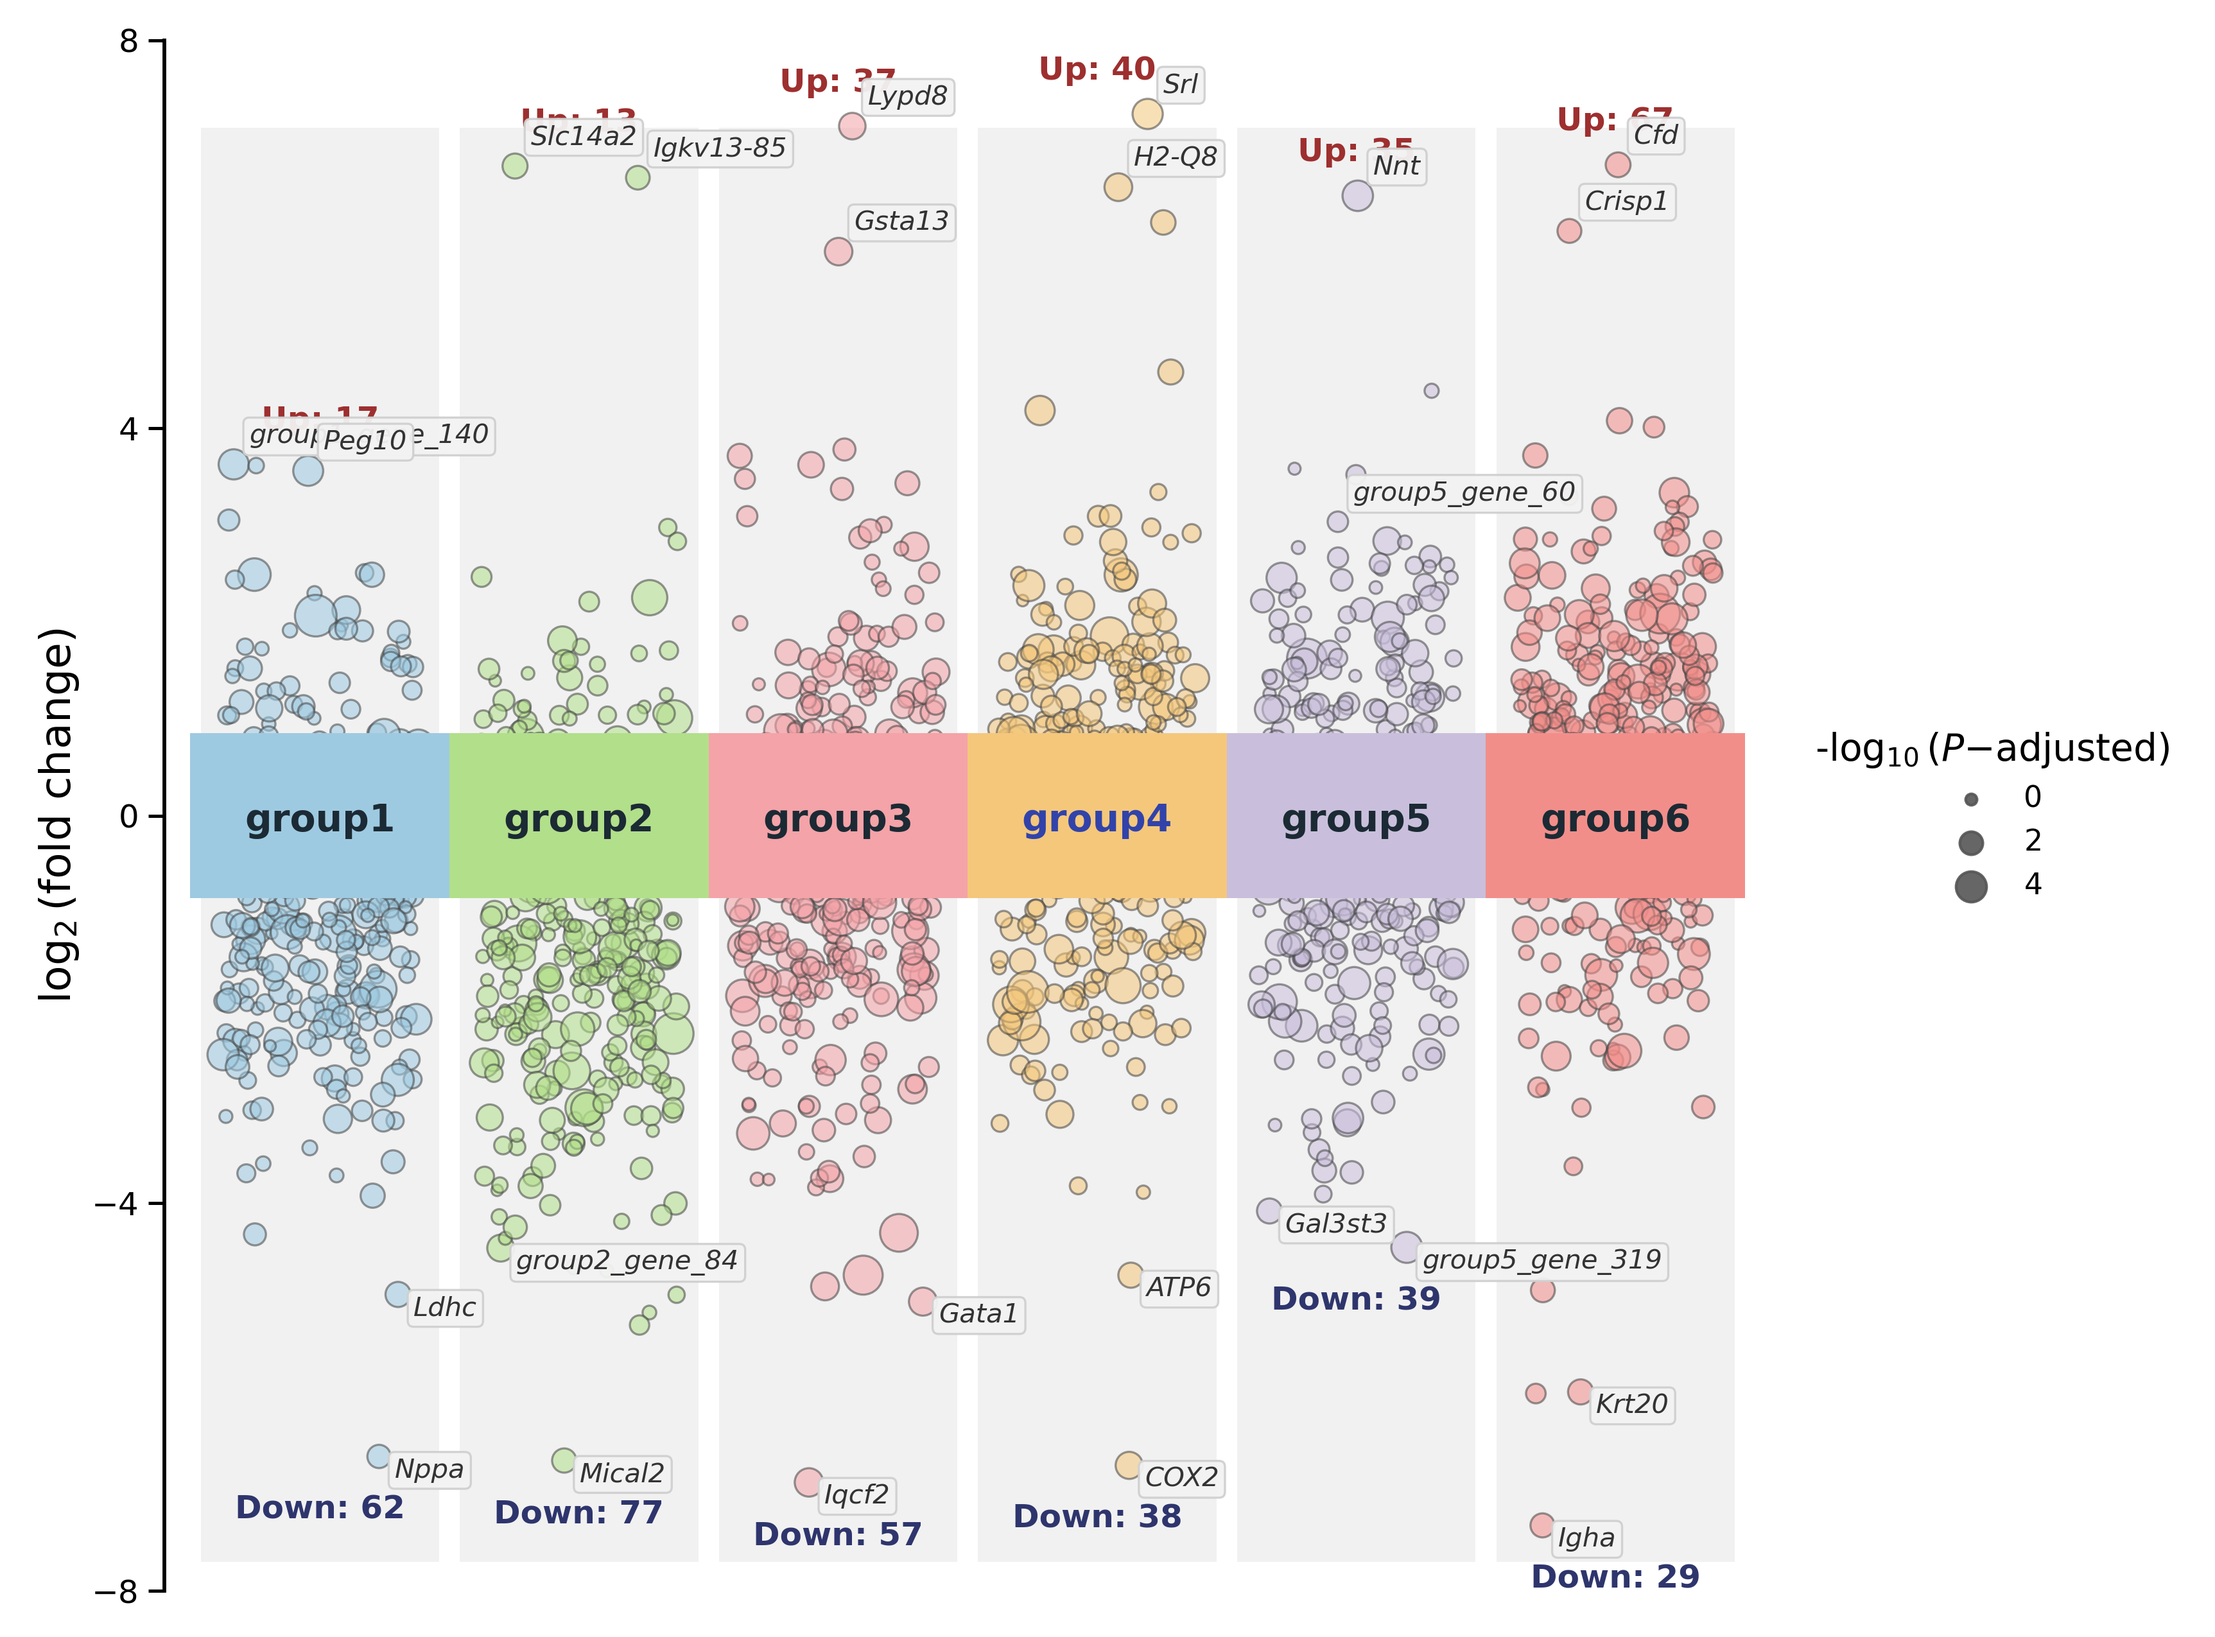
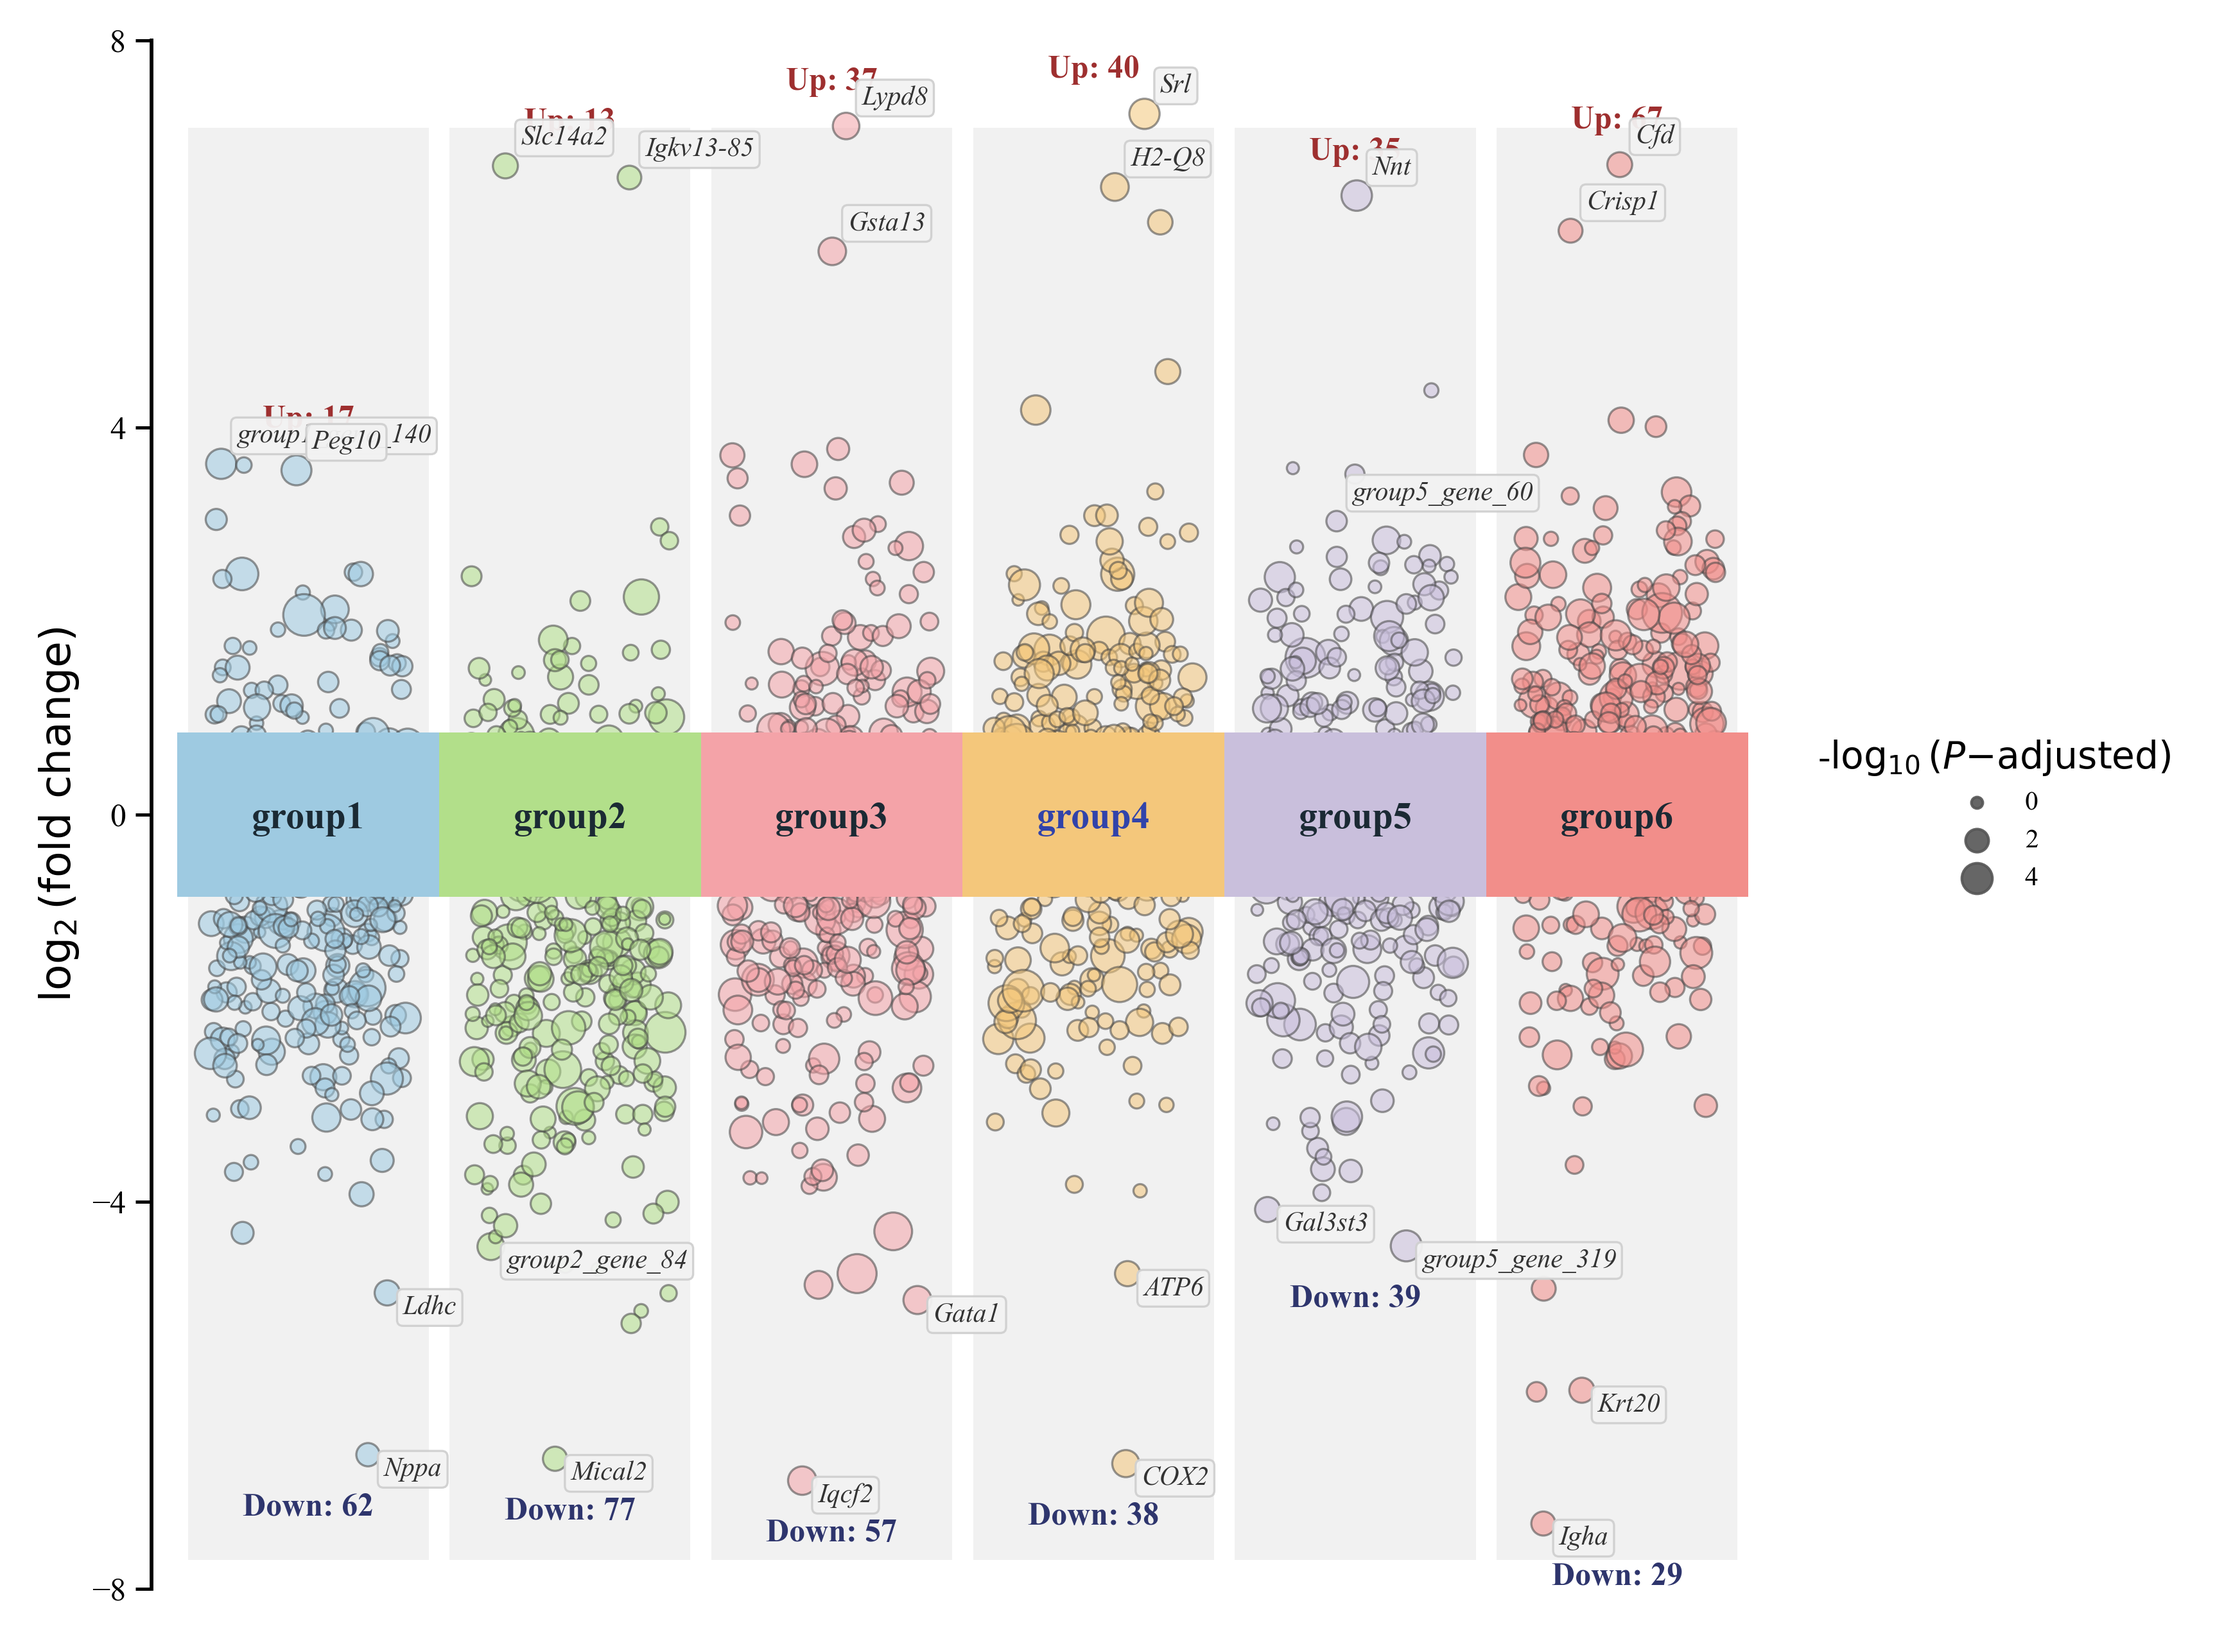
Update font settings to "Times New Roman" in volcano plot scripts and outputs

diff --git a/grouped volcano plot/src/plot_trust_volcano_style.py b/grouped volcano plot/src/plot_trust_volcano_style.py
@@ -9,6 +9,8 @@ import pandas as pd
 from matplotlib import colors as mcolors
 from matplotlib.lines import Line2D
 
+plt.rcParams["font.family"] = "Times New Roman"
+
 
 GROUP_ORDER = ["Train Legit", "Test Legit", "Attacker 1", "Attacker 2"]
 GROUP_COLORS = {
@@ -93,6 +95,7 @@ def _make_legend(fig: plt.Figure, show_thresholds: bool) -> None:
         fancybox=False,
         edgecolor="#555555",
         fontsize=10,
+        prop={"family": "Times New Roman"},
     )
 
 
@@ -176,6 +179,7 @@ def draw_plot(
                 color="#1f5f1f",
                 fontweight="bold",
                 zorder=5,
+                fontfamily="Times New Roman",
             )
             ax.text(
                 x_center,
@@ -187,6 +191,7 @@ def draw_plot(
                 color="#5e1f3a",
                 fontweight="bold",
                 zorder=5,
+                fontfamily="Times New Roman",
             )
 
         ax.text(
@@ -199,14 +204,15 @@ def draw_plot(
             fontsize=11,
             fontweight="bold",
             color="#2a2a2a",
+            fontfamily="Times New Roman",
         )
 
     if show_thresholds:
         ax.axhline(theta0, color="#b51e3f", linestyle=(0, (4, 3)), linewidth=1.8, zorder=2)
         ax.axhline(thetaT, color="#57bf23", linestyle=(0, (4, 3)), linewidth=1.8, zorder=2)
         x_annot = x_max + 0.35 * x_pad
-        ax.text(x_annot, theta0 + 0.03, r"$\theta_0$", color="#b51e3f", fontsize=12, va="bottom", ha="left")
-        ax.text(x_annot, thetaT + 0.03, r"$\theta_T$", color="#57bf23", fontsize=12, va="bottom", ha="left")
+        ax.text(x_annot, theta0 + 0.03, r"$\theta_0$", color="#b51e3f", fontsize=12, va="bottom", ha="left", fontfamily="Times New Roman")
+        ax.text(x_annot, thetaT + 0.03, r"$\theta_T$", color="#57bf23", fontsize=12, va="bottom", ha="left", fontfamily="Times New Roman")
 
     xticks: list[float] = []
     xlabels: list[str] = []
@@ -222,9 +228,9 @@ def draw_plot(
         boundary = group_offsets[GROUP_ORDER[i]] + TIME_MAX + 0.5 * GROUP_GAP
         ax.axvline(boundary, color="#666666", linestyle=(0, (3, 3)), linewidth=0.9, alpha=0.7, zorder=1)
 
-    ax.set_xlabel("Sample Time", fontsize=13)
-    ax.set_ylabel("Trust Score", fontsize=14)
-    fig.suptitle(title, fontsize=16, y=0.975)
+    ax.set_xlabel("Sample Time", fontsize=13, fontfamily="Times New Roman")
+    ax.set_ylabel("Trust Score", fontsize=14, fontfamily="Times New Roman")
+    fig.suptitle(title, fontsize=16, y=0.975, fontfamily="Times New Roman")
     fig.text(
         0.5,
         0.94,
@@ -232,6 +238,7 @@ def draw_plot(
         ha="center",
         va="center",
         fontsize=12,
+        fontfamily="Times New Roman",
     )
 
     ax.spines["top"].set_visible(False)
@@ -239,6 +246,8 @@ def draw_plot(
     ax.spines["left"].set_linewidth(1.2)
     ax.spines["bottom"].set_linewidth(1.2)
     ax.tick_params(axis="both", labelsize=11, width=1.0, length=5)
+    for label in ax.get_xticklabels() + ax.get_yticklabels():
+        label.set_fontfamily("Times New Roman")
     ax.grid(axis="y", alpha=0.15)
 
     _make_legend(fig, show_thresholds=show_thresholds)

diff --git a/grouped volcano plot/src/plot_grouped_volcano.py b/grouped volcano plot/src/plot_grouped_volcano.py
@@ -8,6 +8,8 @@ import numpy as np
 import pandas as pd
 from matplotlib.patches import Rectangle
 
+plt.rcParams["font.family"] = "Times New Roman"
+
 
 GROUP_ORDER = ["group1", "group2", "group3", "group4", "group5", "group6"]
 GROUP_COLORS = {
@@ -110,6 +112,7 @@ def draw_plot(
             fontweight="bold",
             color="#1b2a34" if group != "group4" else "#3143aa",
             zorder=5,
+            fontfamily="Times New Roman",
         )
 
     for i, group in enumerate(GROUP_ORDER, start=1):
@@ -146,6 +149,7 @@ def draw_plot(
             ha="center",
             va="center",
             zorder=6,
+            fontfamily="Times New Roman",
         )
         ax.text(
             i,
@@ -157,6 +161,7 @@ def draw_plot(
             ha="center",
             va="center",
             zorder=6,
+            fontfamily="Times New Roman",
         )
 
         labels = _pick_labels(dg, fc_threshold, padj_threshold, labels_per_side)
@@ -176,6 +181,7 @@ def draw_plot(
                     "alpha": 0.95,
                 },
                 zorder=7,
+                fontfamily="Times New Roman",
             )
 
     legend_values = [0, 2, 4]
@@ -194,18 +200,21 @@ def draw_plot(
         borderaxespad=0.0,
         fontsize=11,
         title_fontsize=14,
+        prop={"family": "Times New Roman"},
     )
 
     ax.set_xlim(0.4, len(GROUP_ORDER) + 0.6)
     ax.set_xticks([])
     ax.set_yticks(np.arange(-8, 9, 4))
-    ax.set_ylabel(r"$\log_2(\mathrm{fold\ change})$", fontsize=16)
+    ax.set_ylabel(r"$\log_2(\mathrm{fold\ change})$", fontsize=16, fontfamily="Times New Roman")
 
     ax.spines["top"].set_visible(False)
     ax.spines["right"].set_visible(False)
     ax.spines["bottom"].set_visible(False)
     ax.spines["left"].set_linewidth(1.4)
     ax.tick_params(axis="y", labelsize=12, width=1.2, length=6)
+    for label in ax.get_yticklabels():
+        label.set_fontfamily("Times New Roman")
 
     plt.tight_layout()
     output_path.parent.mkdir(parents=True, exist_ok=True)
